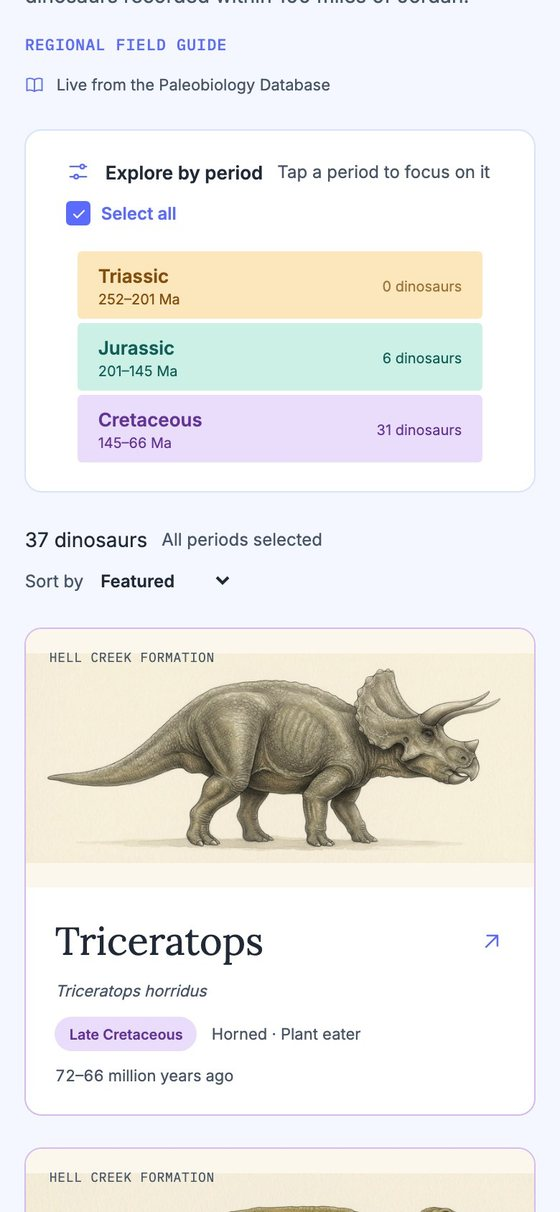
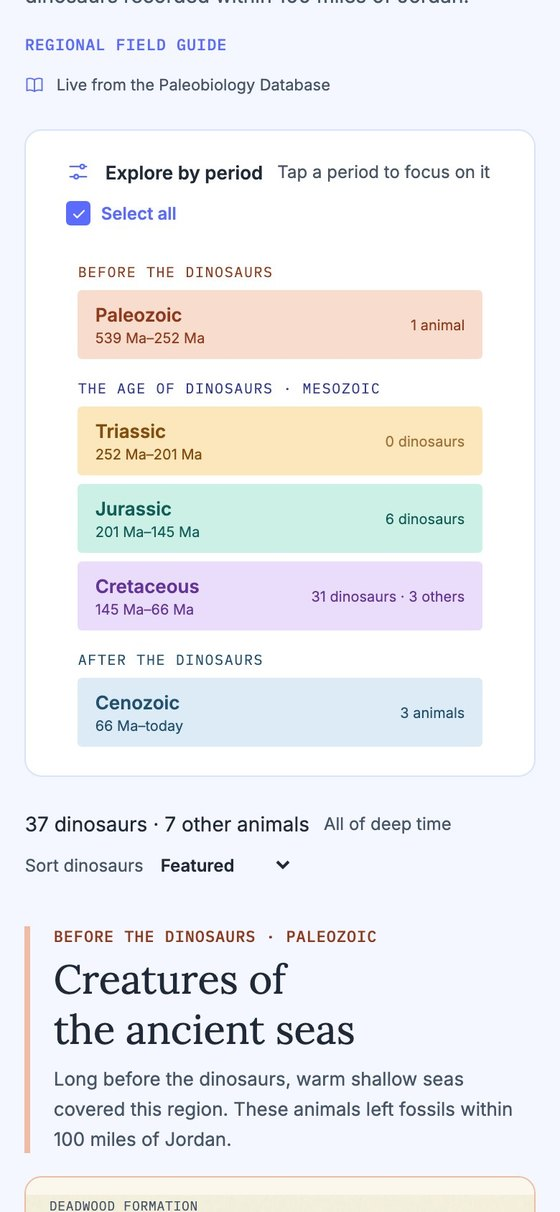
Case study: add After launch section and refresh screenshots
New decisions 08-10 cover animal search, the five-span deep-time timeline
with Dimetrodon, and growing the specimen collection from 38 paintings to
571, prioritized by where people actually look. Screenshots are retaken
from the current app, and the process, collaboration and next steps lists
are updated to match.

diff --git a/case-study/index.html b/case-study/index.html
@@ -29,6 +29,7 @@ img { max-width: 100%; }
   --peri: #5b6bff; --peri-soft: #eaf0ff; --page: #f4f7ff; --card: #ffffff; --paper: #fbf7ec;
   --ink: #1f2937; --muted: #475569; --faint: #64748b; --line: #d7e3ff;
   --tri: #fce7bc; --tri-ink: #854d0e; --jur: #ccf0e5; --jur-ink: #115e59; --cre: #eaddfb; --cre-ink: #63339a;
+  --pal: #f8dccd; --pal-ink: #8f3a1c; --cen: #dcebf5; --cen-ink: #24506f;
   --display: 'Lora', Georgia, 'Times New Roman', serif;
   --body: 'Inter', system-ui, -apple-system, 'Segoe UI', sans-serif;
   --mono: 'IBM Plex Mono', ui-monospace, Menlo, monospace;
@@ -109,6 +110,11 @@ figcaption b { color: var(--ink); }
 .p-tri { background: var(--tri); color: var(--tri-ink); }
 .p-jur { background: var(--jur); color: var(--jur-ink); }
 .p-cre { background: var(--cre); color: var(--cre-ink); }
+.p-pal { background: var(--pal); color: var(--pal-ink); }
+.p-cen { background: var(--cen); color: var(--cen-ink); }
+.periods.five { grid-template-columns: repeat(5, minmax(0, 1fr)); }
+.note { font-family: var(--mono); font-size: 11px; letter-spacing: .04em; color: var(--faint); margin-top: 8px; }
+@media (max-width: 720px) { .periods.five { grid-template-columns: 1fr; } }
 @media (max-width: 520px) { .periods { grid-template-columns: 1fr; } }
 
 /* headlines for places without dinosaurs */
@@ -219,8 +225,8 @@ footer a { color: var(--nav-ink); }
     </div>
     <div class="wide">
       <figure class="pair phone">
-        <div><span class="tag after">Golden, Colorado</span><img src="img/app-results.jpg" alt="Results near Golden: Meet your prehistoric neighbors, with the period filter and cards for Allosaurus, Camarasaurus and Diplodocus." width="1400" height="1100"></div>
-        <div class="shot"><span class="tag after">On a phone</span><img src="img/phone-results.jpg" alt="Phone view of the period filter near Jordan, Montana: 0 Triassic, 6 Jurassic and 31 Cretaceous dinosaurs, with a Triceratops card." width="560" height="1212"></div>
+        <div><span class="tag after">Golden, Colorado</span><img src="img/app-results.jpg" alt="Results near Golden: Meet your prehistoric neighbors, with the timeline narrowed to the Triassic, Jurassic and Cretaceous, and painted cards for Allosaurus, Camarasaurus and Diplodocus." width="1400" height="1100"></div>
+        <div class="shot"><span class="tag after">On a phone</span><img src="img/phone-results.jpg" alt="Phone view of the period filter near Jordan, Montana: 1 Paleozoic animal, 0 Triassic, 6 Jurassic and 31 Cretaceous dinosaurs, and 3 Cenozoic animals." width="560" height="1212"></div>
       </figure>
     </div>
 
@@ -239,7 +245,7 @@ footer a { color: var(--nav-ink); }
     <div class="wide">
       <figure class="pair">
         <div><img src="img/app-columbus.jpg" alt="Columbus, Ohio: Before the dinosaurs, this was a sea, with trilobites, ammonites and Dunkleosteus." width="1400" height="923"></div>
-        <div><img src="img/app-hays.jpg" alt="Hays, Kansas: Life in the inland sea, with Cretoxyrhina, a mosasaur, Pteranodon and Xiphactinus." width="1400" height="1000"></div>
+        <div><img src="img/app-hays.jpg" alt="Hays, Kansas: Life in the inland sea, with the Ginsu shark, ammonites, mosasaurs, Pteranodon and Xiphactinus." width="1400" height="1000"></div>
       </figure>
       <figcaption class="col"><b>Ohio and Kansas</b> have few or no dinosaurs, but trilobites, sea monsters and giant fish take their place.</figcaption>
     </div>
@@ -260,7 +266,7 @@ footer a { color: var(--nav-ink); }
 
     <div class="col decision">
       <span class="num">04</span><h3>Paintings for the stars, silhouettes for everyone</h3>
-      <p>I directed a specimen collection of 38 illustrations in one consistent ink-and-watercolor style: the dinosaurs people know best, plus sea creatures and Ice Age giants. Every other animal gets an open-licensed silhouette from PhyloPic, tinted in its period’s color and credited to its artist. When no silhouette of an animal exists, a close relative stands in, clearly labeled “Related ankylosaurid,” so nothing is passed off as something it isn’t.</p>
+      <p>At launch I directed a specimen collection of 38 illustrations in one consistent ink-and-watercolor style: the dinosaurs people know best, plus sea creatures and Ice Age giants. (It has since grown to 571; more on that below.) Every other animal gets an open-licensed silhouette from PhyloPic, tinted in its period’s color and credited to its artist. When no silhouette of an animal exists, a close relative stands in, clearly labeled “Related ankylosaurid,” so nothing is passed off as something it isn’t.</p>
     </div>
     <div class="wide">
       <figure><img src="img/specimens.jpg" alt="The Dino Tracker specimen collection sheet: theropods including Tyrannosaurus, Allosaurus and Deinonychus, and sauropods including Diplodocus and Brachiosaurus." width="1600" height="935">
@@ -284,8 +290,8 @@ footer a { color: var(--nav-ink); }
       </figure>
     </div>
     <div class="wide">
-      <figure><img src="img/app-gobi.jpg" alt="Results in the Gobi Desert, Mongolia: 28 dinosaurs, led by Protoceratops, Pinacosaurus and Velociraptor shown as lavender silhouettes." width="1400" height="1100">
-        <figcaption><b>The Gobi Desert:</b> Protoceratops, Velociraptor and 26 more, 160 km around Dalanzadgad, Mongolia.</figcaption></figure>
+      <figure><img src="img/app-gobi.jpg" alt="Results in the Gobi Desert, Mongolia: 27 dinosaurs of the Cretaceous, led by painted Protoceratops, Pinacosaurus and Velociraptor." width="1400" height="1100">
+        <figcaption><b>The Gobi Desert:</b> Protoceratops, Pinacosaurus, Velociraptor and 24 more, 160 km around Dalanzadgad, Mongolia.</figcaption></figure>
     </div>
 
     <div class="col decision">
@@ -311,6 +317,62 @@ footer a { color: var(--nav-ink); }
 
   <section class="gutter">
     <div class="col">
+      <p class="eyebrow">After launch</p>
+      <h2>Three ideas that came after it shipped</h2>
+      <p>Once Dino Tracker was live, I kept using it, and kept having ideas. Three of them changed the app.</p>
+    </div>
+
+    <div class="col decision">
+      <span class="num">08</span><h3>Look up a dinosaur, not just a place</h3>
+      <p>The app answered “who lived here?” but not the reverse: “where did Spinosaurus live?” A search box on the map now takes any of about 3,900 dinosaur names, or a featured animal like Dimetrodon or Mammoth, and plots every site where it has been found. It forgives typos, and suggestions put the dinosaurs people know first. Every site links back to that animal’s field guide for the area, so the map and the guide feed each other.</p>
+    </div>
+    <div class="wide">
+      <figure><img src="img/app-find.jpg" alt="The map after searching Spinosaurus: a card with its painting, 44 fossil records at 25 sites in Morocco, Egypt, Niger and 3 more countries, and navy dots across North Africa." width="1400" height="923">
+        <figcaption><b>Where Spinosaurus lived:</b> 44 fossil records at 25 sites, from Morocco to Egypt.</figcaption></figure>
+    </div>
+
+    <div class="col decision">
+      <span class="num">09</span><h3>Before and after the dinosaurs</h3>
+      <p>One of my favorite prehistoric animals is Dimetrodon, the sail-backed one, and it isn’t a dinosaur. It lived about 40 million years before the first one. I wanted it in the app, which raised a bigger question: should other eras get their own tabs?</p>
+      <p>I decided tabs were overkill. I extended the timeline instead, with a span on each side of the age of dinosaurs. I looked at a full geologic column with a dozen periods and decided it was too much detail for a slider. The last span is “Cenozoic,” not “Ice Age,” because that’s what it actually is.</p>
+      <div class="periods five" aria-label="The five spans of the timeline">
+        <div class="p-pal"><b>Paleozoic</b><span>539–252</span></div>
+        <div class="p-tri"><b>Triassic</b><span>252–201</span></div>
+        <div class="p-jur"><b>Jurassic</b><span>201–145</span></div>
+        <div class="p-cre"><b>Cretaceous</b><span>145–66</span></div>
+        <div class="p-cen"><b>Cenozoic</b><span>66–today</span></div>
+      </div>
+      <p class="note">Millions of years ago.</p>
+      <p>Sea creatures live in their real era now too: a trilobite near Cincinnati is tagged Ordovician, and a mosasaur in Kansas is tagged Late Cretaceous. Each tag comes from the ages of the fossils found nearby. Where a card used to say “Not a dinosaur” in its corner, it now names the rock formation the fossils came from, the same as on the dinosaur cards. The “Not a dinosaur” label moved to the field guide.</p>
+    </div>
+    <div class="wide">
+      <figure class="pair">
+        <div><img src="img/app-deeptime.jpg" alt="Results near Seymour, Texas, with the five-span timeline: 6 Paleozoic animals, 5 Cretaceous dinosaurs and 4 Cenozoic animals, and The sail-backs and their neighbors: Dimetrodon, Eryops, Diplocaulus and Edaphosaurus." width="1400" height="1100"></div>
+        <div><img src="img/app-dimetrodon.jpg" alt="The Dimetrodon field guide near Seymour: a Permian tag, a Not a dinosaur tag, a painting, and facts including 76 Permian records from the Vale and Arroyo Formations." width="1400" height="1000"></div>
+      </figure>
+      <figcaption class="col"><b>Seymour, Texas,</b> sits on some of the richest Permian rocks in the world. The sail-backs got here first.</figcaption>
+    </div>
+
+    <div class="col decision">
+      <span class="num">10</span><h3>From 38 paintings to 571</h3>
+      <p>Silhouettes were a good stand-in, but the paintings are what make the app feel like a field guide. After launch I kept painting, in batches of up to 100 per sheet, with the same ink-and-watercolor style.</p>
+      <p>The hard part was picking which ones. The database lists about 3,900 dinosaur names, and most of them are known from only one or two finds. Ranking by how common a dinosaur is worldwide sent Argentina’s local stars to the bottom of the list. So we ranked by where people actually look instead: every dinosaur at the app’s sample places first, then the ones that turn up across several regions. Early birds were left as silhouettes on purpose, since the app lists them last anyway. Some animals are known only from a tooth or a few bones, and their plates show exactly that.</p>
+      <div class="stats">
+        <div><b>571</b><span>paintings, up from 38 at launch</span></div>
+        <div><b>11 / 11</b><span>sample places where every dinosaur except early birds is painted</span></div>
+        <div><b>7 → 83</b><span>painted dinosaurs around Neuquén, Argentina, out of 86</span></div>
+      </div>
+    </div>
+    <div class="wide">
+      <figure><img src="img/collection.jpg" alt="A sample of the specimen collection: Dimetrodon, Spinosaurus, Velociraptor, Megalodon, a clutch of fossil eggs, a sea scorpion, Therizinosaurus, Argentinosaurus and more, all in ink and watercolor." width="1600" height="453">
+        <figcaption><b>A few of the 571.</b> Dinosaurs, a sea scorpion, Megalodon, a nest of eggs, and a plate of bones for an animal known only from fragments.</figcaption></figure>
+      <figure><img src="img/app-drumheller.jpg" alt="Results near Drumheller, Alberta: Dinosaurs of the Cretaceous, all painted, including Edmontosaurus, Tyrannosaurus, Triceratops, Centrosaurus and Saurornitholestes." width="1400" height="1100">
+        <figcaption><b>Drumheller, Alberta:</b> every one of its 68 dinosaurs now has a painting.</figcaption></figure>
+    </div>
+  </section>
+
+  <section class="gutter">
+    <div class="col">
       <p class="eyebrow">Process</p>
       <h2>From sketch to the whole planet</h2>
       <ol class="steps">
@@ -319,6 +381,9 @@ footer a { color: var(--nav-ink); }
         <li><b>The specimen collection</b><span>Three illustration sheets, cut into 38 paintings, plus silhouettes for everything else.</span></li>
         <li><b>A real web app</b><span>Live fossil records for any US place, GPS, shareable links and offline support.</span></li>
         <li><b>Going global</b><span>Place search, a world map of fossil finds and kilometers, with over 100 more silhouettes.</span></li>
+        <li><b>Animal search</b><span>Look up any dinosaur and see every place it has been found.</span></li>
+        <li><b>Deep time</b><span>A five-span timeline, from the Paleozoic sea to the Cenozoic, with Dimetrodon and friends.</span></li>
+        <li><b>571 paintings</b><span>Eleven more sheets, painted in the order people will see them.</span></li>
       </ol>
     </div>
   </section>
@@ -328,8 +393,8 @@ footer a { color: var(--nav-ink); }
       <p class="eyebrow">Collaboration</p>
       <h2>Working with Claude</h2>
       <div class="split">
-        <div><h3>My calls</h3><ul><li>The concept and the time-travel twist</li><li>The Figma mockups, palette and logo</li><li>The specimen illustrations and their style</li><li>Taking it global with a map</li></ul></div>
-        <div><h3>Claude’s work</h3><ul><li>Design critique against real data</li><li>The prototype and the web app</li><li>Fossil records, silhouettes and the map</li><li>Checking every screen at phone size</li></ul></div>
+        <div><h3>My calls</h3><ul><li>The concept and the time-travel twist</li><li>The Figma mockups, palette and logo</li><li>The specimen illustrations and their style</li><li>Taking it global with a map</li><li>Animal search and the deep-time timeline</li></ul></div>
+        <div><h3>Claude’s work</h3><ul><li>Design critique against real data</li><li>The prototype and the web app</li><li>Fossil records, silhouettes and the map</li><li>A painting priority list based on where people look</li><li>Cutting and fitting every painting</li><li>Checking every screen at phone size</li></ul></div>
       </div>
     </div>
   </section>
@@ -339,7 +404,6 @@ footer a { color: var(--nav-ink); }
       <p class="eyebrow">Next</p>
       <h2>Where it goes from here</h2>
       <ul>
-        <li><b>More paintings</b> for the dinosaurs people see most outside the US, starting with Spinosaurus, Velociraptor, Protoceratops and Iguanodon.</li>
         <li><b>Where your town was.</b> The continents have moved. A small globe could show where your spot sat 150 million years ago.</li>
         <li><b>Museums and dig sites</b> near every place, to turn a search into a day out.</li>
         <li><b>Review by a paleontologist,</b> and testing with kids, parents and teachers.</li>
